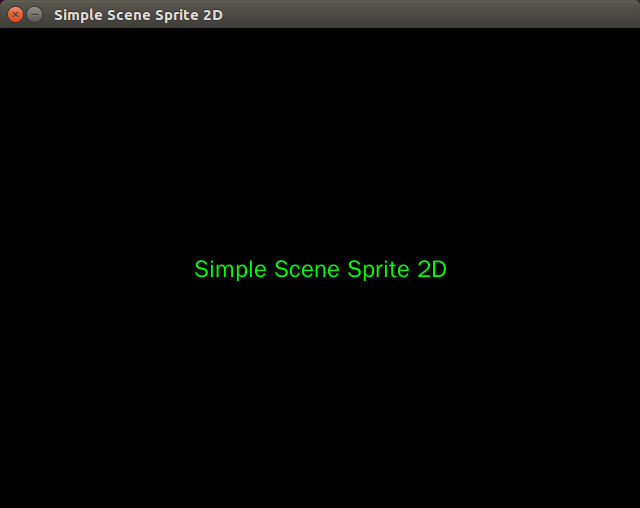
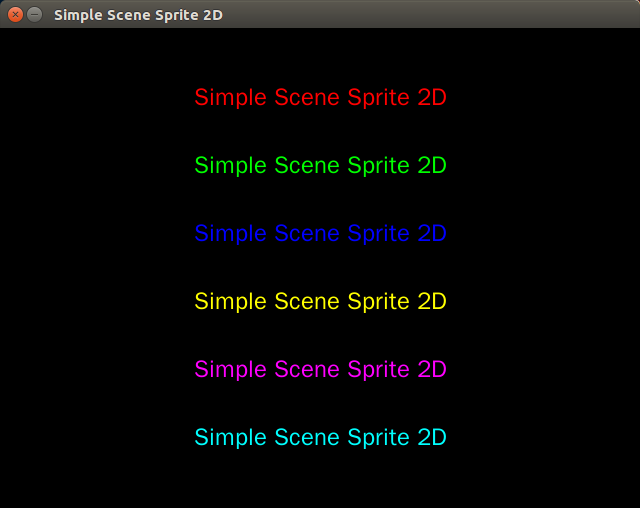
update demo.cpp

diff --git a/SSS_Base.h b/SSS_Base.h
@@ -35,6 +35,14 @@ typedef SDL_Rect        Area;
 typedef SDL_Color       Color;
 typedef TTF_Font        Font;
 
+const Color COLOR_RED    =  {0xff,0x00,0x00,0xff};
+const Color COLOR_GREEN  =  {0x00,0xff,0x00,0xff};
+const Color COLOR_BLUE   =  {0x00,0x00,0xff,0xff};
+const Color COLOR_YELLOW =  {0xff,0xff,0x00,0xff};
+const Color COLOR_PURPLE =  {0xff,0x00,0xff,0xff};
+const Color COLOR_CYAN   =  {0x00,0xff,0xff,0xff};
+const Color COLOR_WHITE  =  {0x00,0xff,0xff,0xff};
+const Color COLOR_BLACK  =  {0x00,0xff,0xff,0xff};
 
 class Application;
 class AbstractScene;

diff --git a/SSS_Sprite.cpp b/SSS_Sprite.cpp
@@ -117,7 +117,16 @@ TextSprite::TextSprite(AbstractScene* scene)
     this->texture_ = nullptr;
     this->font_ = defaultFont_;  // default font
     this->position_ = { app()->width()/2 , app()->height()/2 }; // default position
-    this->color_ = {0xff,0xff,0xff,0xff}; // default color is white
+    this->color_ = COLOR_WHITE; // default color is white
+}
+
+/* distructor */
+TextSprite::~TextSprite()
+{
+    if(this->font_ != TextSprite::defaultFont_)
+    {
+        TTF_CloseFont(this->font_);
+    }
 }
 
 /* deal event */

diff --git a/SSS_Sprite.h b/SSS_Sprite.h
@@ -62,6 +62,7 @@ public:
 	static void setDefaultFont(std::string fontFile,size_t size);
 	
 	TextSprite(AbstractScene* scene  = nullptr);
+	~TextSprite();
 	
 	virtual void dealEvent(SDL_Event event);
 	virtual void update();

diff --git a/README.md b/README.md
@@ -17,20 +17,46 @@ make & make install
 
 using namespace sss2d;
 
-int main()
+int main(int argc,char* argv[])
 {
+    /* Create Application and Scene */
     Application app;
     Scene scene(&app);
     app.setScene(&scene);
-    TextSprite text(&scene);
-    text.setFont("wqy-zenhei.ttc",24);
-    text.setText("Simple Scene Sprite 2D");
-    text.setColor(0x00,0xff,0x00);
-    text.setPosition(app.width()/2 , app.height()/2);
     
-    app.start(60);
+    /* Set default font and font size */
+    TextSprite::setDefaultFont("wqy-zenhei.ttc",24);
     
+    /* Create TextSprit */
+    TextSprite red(&scene),green(&scene),blue(&scene),yellow(&scene),purple(&scene),cyan(&scene);
     
+    /* Set text */
+    red.setText("Simple Scene Sprite 2D");
+    green.setText("Simple Scene Sprite 2D");
+    blue.setText("Simple Scene Sprite 2D");
+    yellow.setText("Simple Scene Sprite 2D");
+    purple.setText("Simple Scene Sprite 2D");
+    cyan.setText("Simple Scene Sprite 2D");
+    
+    /* Set color */
+    red.setColor(COLOR_RED);
+    green.setColor(COLOR_GREEN);
+    blue.setColor(COLOR_BLUE);
+    yellow.setColor(COLOR_YELLOW);
+    purple.setColor(COLOR_PURPLE);
+    cyan.setColor(COLOR_CYAN);
+    
+    /* Set position */
+    red.setPosition(app.width()/2 , app.height()/7);
+    green.setPosition(app.width()/2 , app.height()/7*2);
+    blue.setPosition(app.width()/2 , app.height()/7*3);
+    yellow.setPosition(app.width()/2 , app.height()/7*4);
+    purple.setPosition(app.width()/2 , app.height()/7*5);
+    cyan.setPosition(app.width()/2 , app.height()/7*6);
+    
+    /* Start application main loop */
+    app.start();
+      
 }
 ```
 ### Compile
